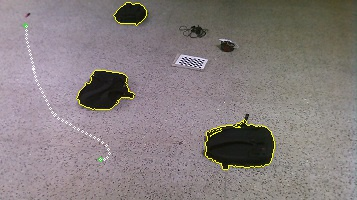
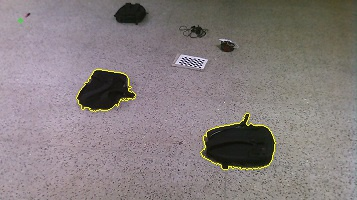
Last commit: Input Images Changed This Commit: Hybrid code modified and output images added

diff --git a/A-star-potential-field-hybrid-type-1.py b/A-star-potential-field-hybrid-type-1.py
@@ -231,7 +231,7 @@ def dist(sx, sy, x, y, theta, arr, q_star):  #distance of obstacle in direction 
 def obstacle_force(arr, sx, sy, q_star): #sx,sy :- source    dx, dy:- destination    q-star:- threshold distance of obstacles
     forcex = 0
     forcey = 0
-    neta = 30000
+    neta = 3000
     x, y , z= arr.shape
     for i in range(8):
         (ox,oy) = dist(sx, sy, x, y, i*math.pi/4, arr, q_star)
@@ -379,7 +379,7 @@ def path_planning(arr, sx1, sy1, dx, dy, theta):
 def final_path(sol, arr):
     l = len(sol)
     print l
-    div = 80
+    div = 250
 
     start = 0
     end = div
@@ -468,6 +468,11 @@ def main():
                 start = (solution[i][1], solution[i][0])
                 cv2.circle(arr,start, 1, [255, 255, 255])
                 cv2.circle(img, start, 1, [255, 255, 255])
+
+            for i in range(len(sol)):
+                start = (sol[i][1], sol[i][0])
+                cv2.circle(arr,start, 1, [255, 0, 0])
+                cv2.circle(img, start, 1, [255, 0, 0])
 
         cv2.circle(arr, (sy, sx), 2, [0, 255, 0])
         cv2.circle(arr, (dy, dx), 2, [0, 255, 0])
